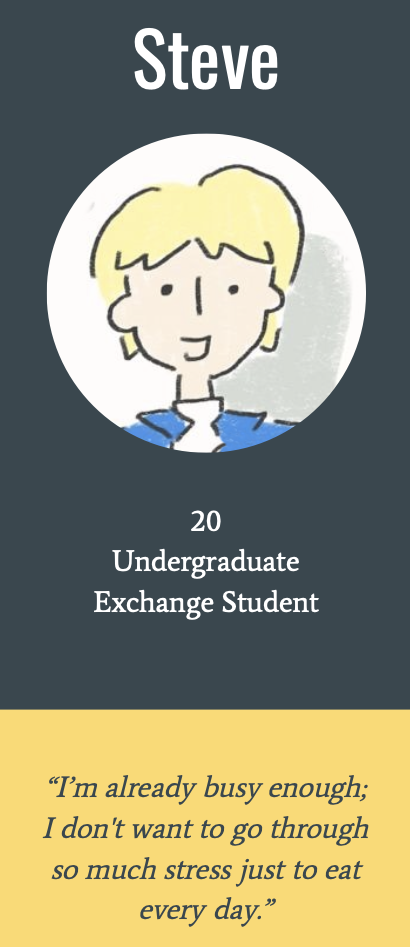
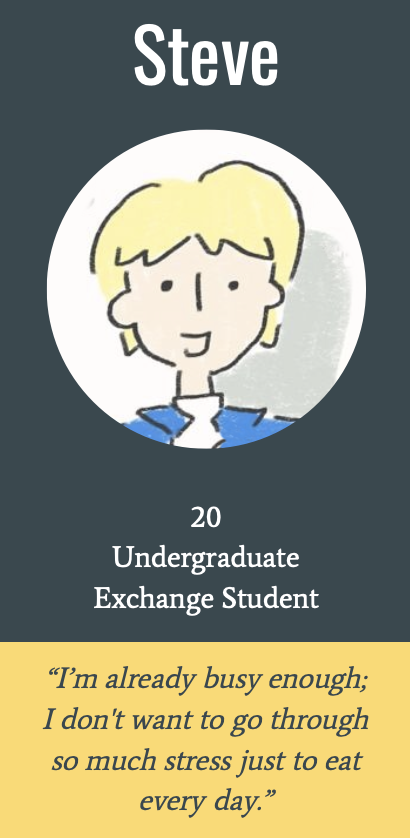
slideshow

Changed region(s): [[0.0, 0.031, 1.0, 0.9928], [0.8195, 0.2792, 0.8488, 0.3103]]

diff --git a/index.html b/index.html
@@ -43,11 +43,14 @@
           <li>The menu is not informative enough </li>
         </ul>
 
-        <h4>Persona</h4>
-        <div style="display:flex; align-items:space-between;">
-          <p style="flex-basis:60%">We created a persona - Steve - to inform the different design choices for our prototype app. As an international exchange student, Steve can't communicate with the predominantly Chinese-speaking staff in their native tongue, nor is he familiar with the cuisine - the most prevalent one across all of HKUST's dining choices. Specific dietary restrictions are also not properly catered to in most cases, with information for vegans / vegetarians such as himself and people with allergies not being readily available. With little time between classes, he also finds it inconvenient to wait for such long periods of time before being served his food.</p>
-          <div style="flex-basis:10%;"></div>
-          <img style="border-radius: 14px; width:120px; flex-basis:25%; "src="docs/assets/steve.png" alt="steve" class="inline"/>
+        
+        <div style="display:flex;">
+          <div style="flex-basis:55%">
+            <h4>Persona</h4>
+            <p>We created a persona - Steve - to inform the different design choices for our prototype app. As an international exchange student, Steve can't communicate with the predominantly Chinese-speaking staff in their native tongue, nor is he familiar with the cuisine - the most prevalent one across all of HKUST's dining choices. Specific dietary restrictions are also not properly catered to in most cases, with information for vegans / vegetarians such as himself and people with allergies not being readily available. With little time between classes, he also finds it inconvenient to wait for such long periods of time before being served his food.</p>
+          </div>
+          <div style="flex-basis:8%;"></div>
+          <img style="border-radius: 14px; width:160px; height:340px"src="docs/assets/steve.png" alt="steve" class="inline"/>
         </div>
 
         <h4>Design Goals</h4>
@@ -62,6 +65,47 @@
         <h4>Storyboarding</h4>
         <img src="docs/assets/storyboard.png" alt="storyboard" class="inline"/>
         <p></p>
+        <h4>Prototype</h4>
+        <div style="display: flex; flex-direction: row; ">
+        <div style="max-width: 300px">
+          <p>hello</p>
+        </div>
+        <div style="max-width: 300px; margin:auto; margin-right: 0px;">
+        <div class="slideshow-container">
+
+          <!-- Full-width images with number and caption text -->
+          <div class="mySlides fade">
+            <div class="numbertext">1 / 3</div>
+            <img src="docs/assets/1.png" style="height: 300px;">
+            <div class="text">Caption Text</div>
+          </div>
+        
+          <div class="mySlides fade">
+            <div class="numbertext">2 / 3</div>
+            <img src="docs/assets/2.png" style="height: 300px;">
+            <div class="text">Caption Two</div>
+          </div>
+        
+          <div class="mySlides fade">
+            <div class="numbertext">3 / 3</div>
+            <img src="docs/assets/3.png" style="height: 300px;">
+            <div class="text">Caption Three</div>
+          </div>
+        
+          <!-- Next and previous buttons -->
+          <a class="prev" onclick="plusSlides(-1)">&#10094;</a>
+          <a class="next" onclick="plusSlides(1)">&#10095;</a>
+        </div>
+        <br>
+        
+        <!-- The dots/circles -->
+        <div style="text-align:center; max-width: 300px; align-self:end;">
+          <span class="dot" onclick="currentSlide(1)"></span> 
+          <span class="dot" onclick="currentSlide(2)"></span> 
+          <span class="dot" onclick="currentSlide(3)"></span> 
+        </div>
+        </div>
+        </div>
         <h2>Project 2</h2>
         <p>TBC</p>
         <h2>Project 3</h2>

diff --git a/stylesheets/styles.css b/stylesheets/styles.css
@@ -268,3 +268,97 @@ footer {
     color:#444;
   }
 }
+
+
+* {box-sizing:border-box}
+
+/* Slideshow container */
+.slideshow-container {
+  max-width: 300px;
+  position: relative;
+  align-self: end;
+  margin: auto;
+  width: 200px;
+  align-content: center;
+  align-items: center;
+}
+
+/* Hide the images by default */
+.mySlides {
+  display: none;
+  align-items: center;
+}
+
+/* Next & previous buttons */
+.prev, .next {
+  cursor: pointer;
+  position: absolute;
+  top: 50%;
+  width: auto;
+  margin-top: -22px;
+  padding: 16px;
+  color: black;
+  font-weight: bold;
+  font-size: 18px;
+  transition: 0.6s ease;
+  border-radius: 0 3px 3px 0;
+  user-select: none;
+}
+
+/* Position the "next button" to the right */
+.next {
+  right: 0;
+  border-radius: 3px 0 0 3px;
+}
+
+/* On hover, add a black background color with a little bit see-through */
+.prev:hover, .next:hover {
+  background-color: rgba(0,0,0,0.8);
+}
+
+/* Caption text */
+.text {
+  color: #f2f2f2;
+  font-size: 15px;
+  padding: 8px 12px;
+  position: absolute;
+  bottom: 8px;
+  width: 100%;
+  text-align: center;
+}
+
+/* Number text (1/3 etc) */
+.numbertext {
+  color: #f2f2f2;
+  font-size: 12px;
+  padding: 8px 12px;
+  position: absolute;
+  top: 0;
+}
+
+/* The dots/bullets/indicators */
+.dot {
+  cursor: pointer;
+  height: 15px;
+  width: 15px;
+  margin: 0 2px;
+  background-color: #bbb;
+  border-radius: 50%;
+  display: inline-block;
+  transition: background-color 0.6s ease;
+}
+
+.active, .dot:hover {
+  background-color: #717171;
+}
+
+/* Fading animation */
+.fade {
+  animation-name: fade;
+  animation-duration: 1.5s;
+}
+
+@keyframes fade {
+  from {opacity: .4} 
+  to {opacity: 1}
+}

diff --git a/javascripts/scale.fix.js b/javascripts/scale.fix.js
@@ -15,3 +15,32 @@ function gestureStart() {
     }
   }
 }
+
+let slideIndex = 1;
+showSlides(slideIndex);
+
+// Next/previous controls
+function plusSlides(n) {
+  showSlides(slideIndex += n);
+}
+
+// Thumbnail image controls
+function currentSlide(n) {
+  showSlides(slideIndex = n);
+}
+
+function showSlides(n) {
+  let i;
+  let slides = document.getElementsByClassName("mySlides");
+  let dots = document.getElementsByClassName("dot");
+  if (n > slides.length) {slideIndex = 1} 
+  if (n < 1) {slideIndex = slides.length}
+  for (i = 0; i < slides.length; i++) {
+    slides[i].style.display = "none"; 
+  }
+  for (i = 0; i < dots.length; i++) {
+    dots[i].className = dots[i].className.replace(" active", "");
+  }
+  slides[slideIndex-1].style.display = "block"; 
+  dots[slideIndex-1].className += " active";
+}
